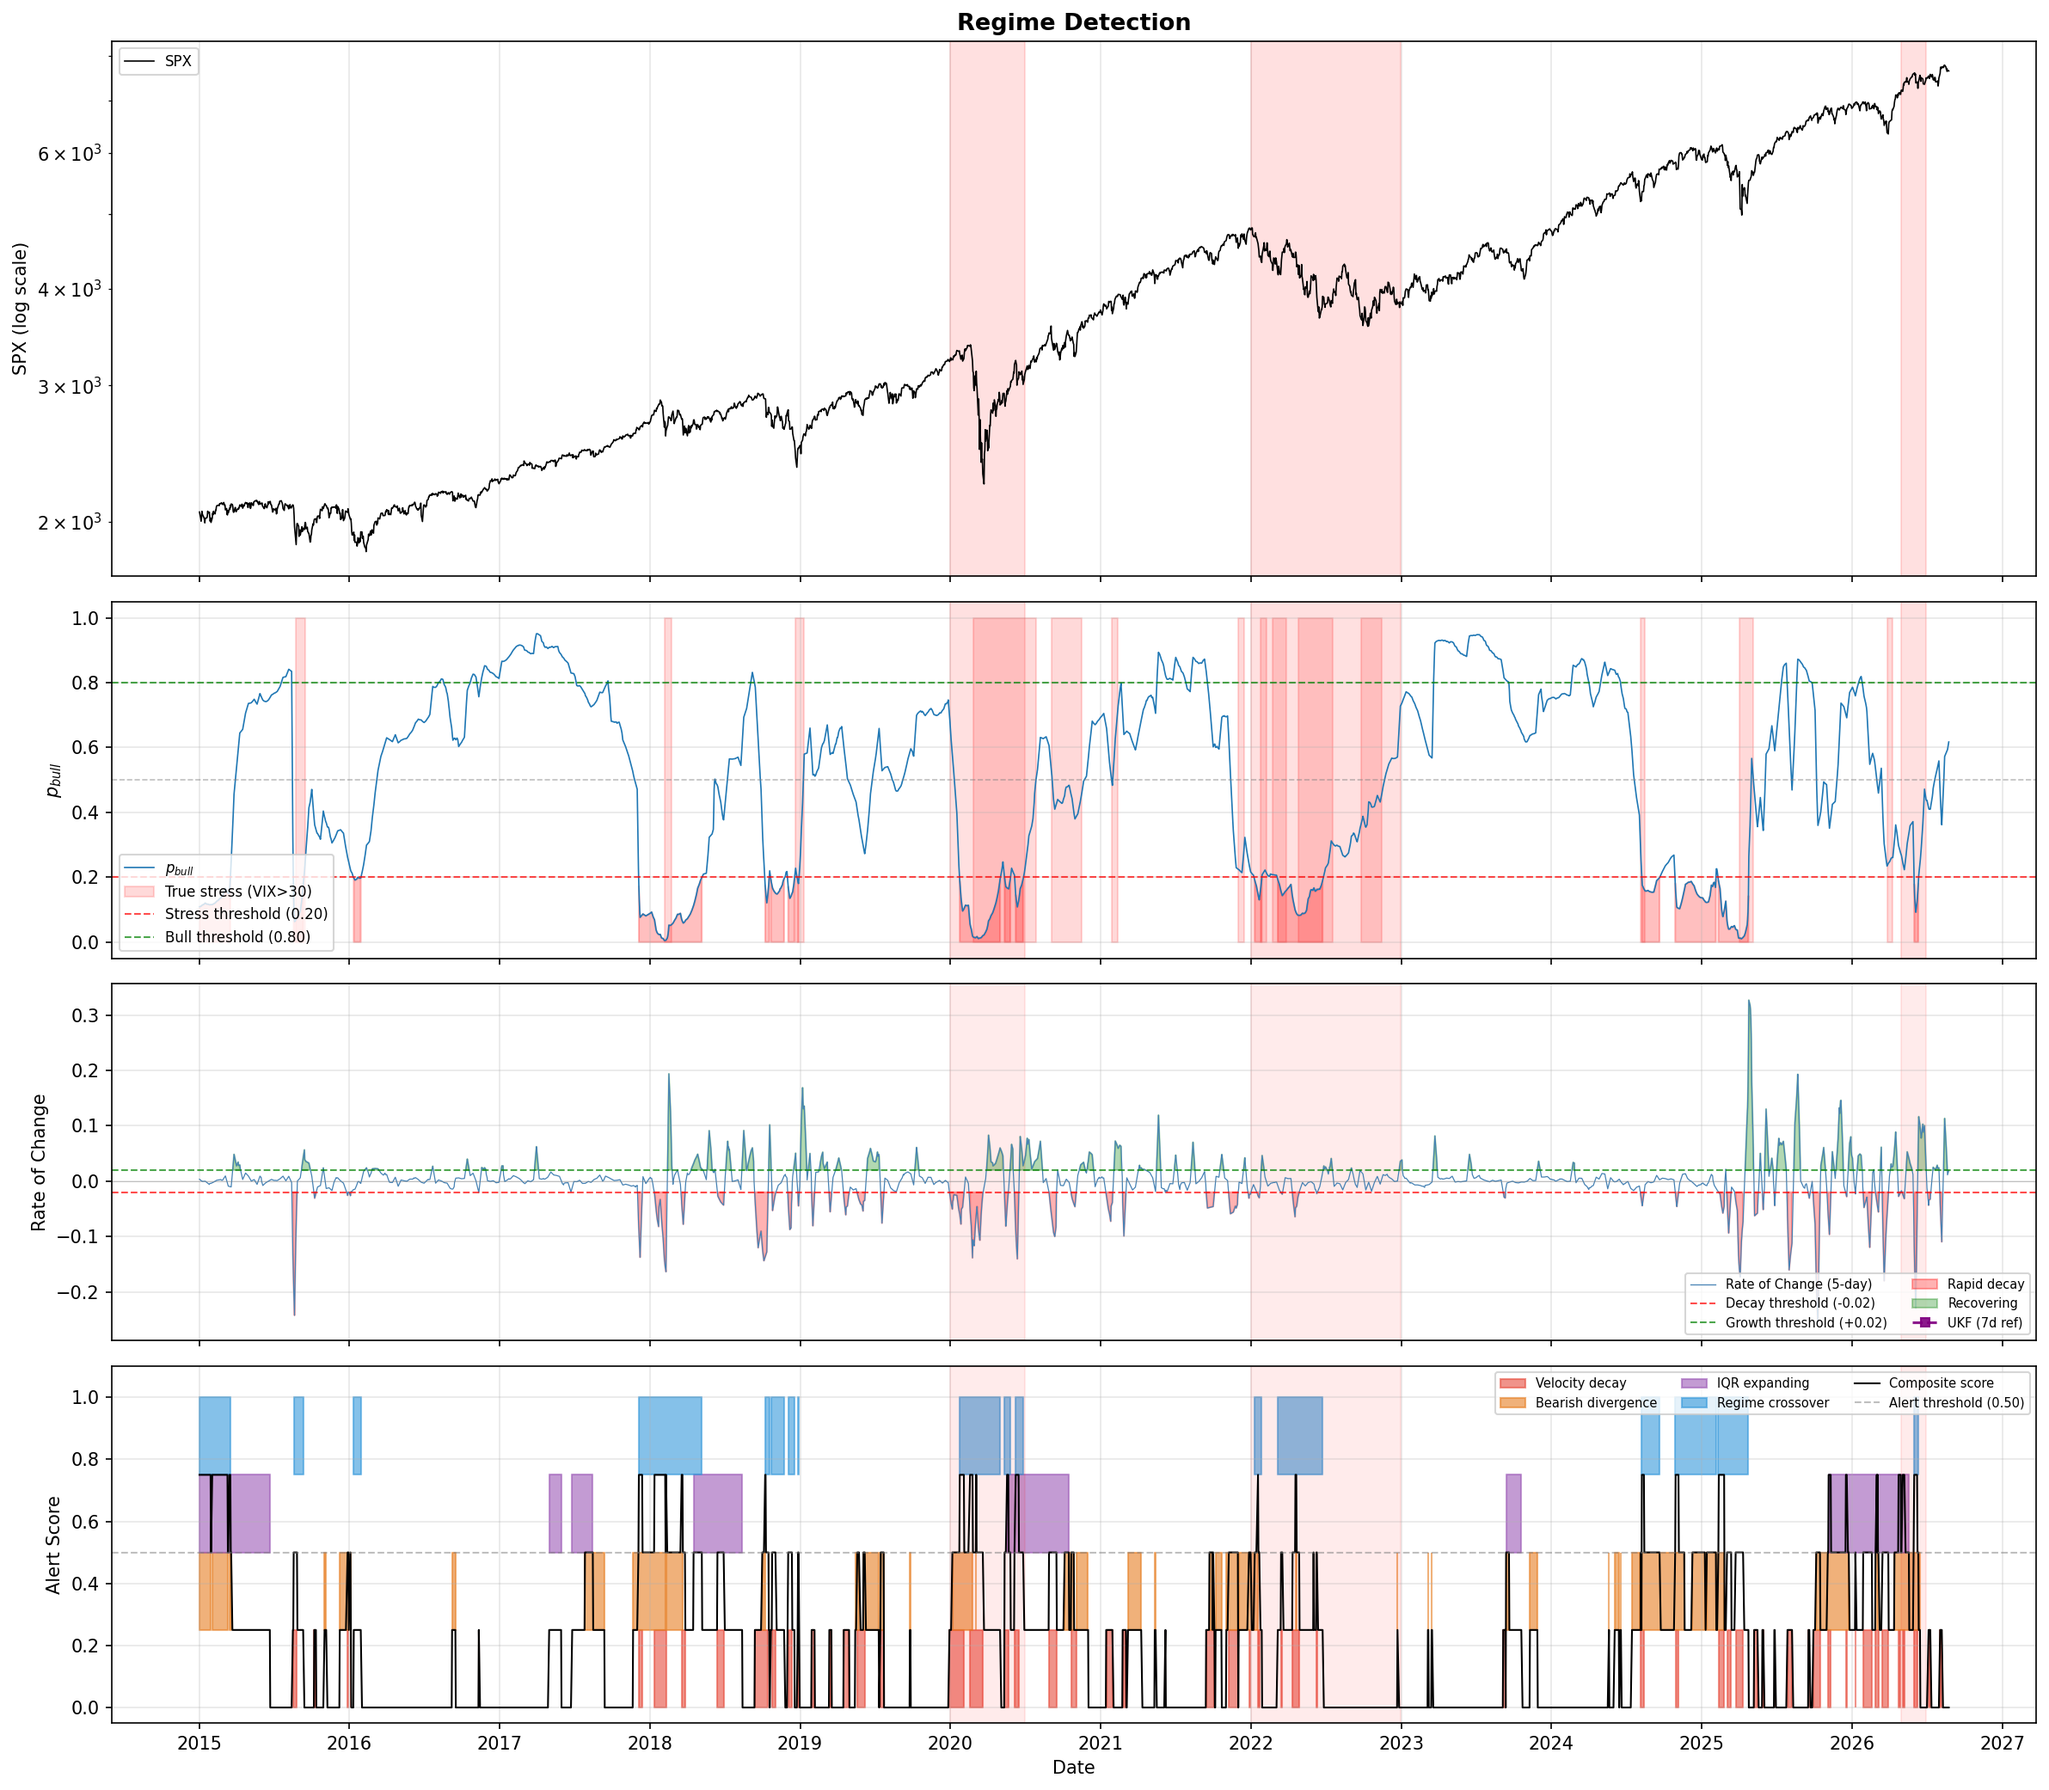
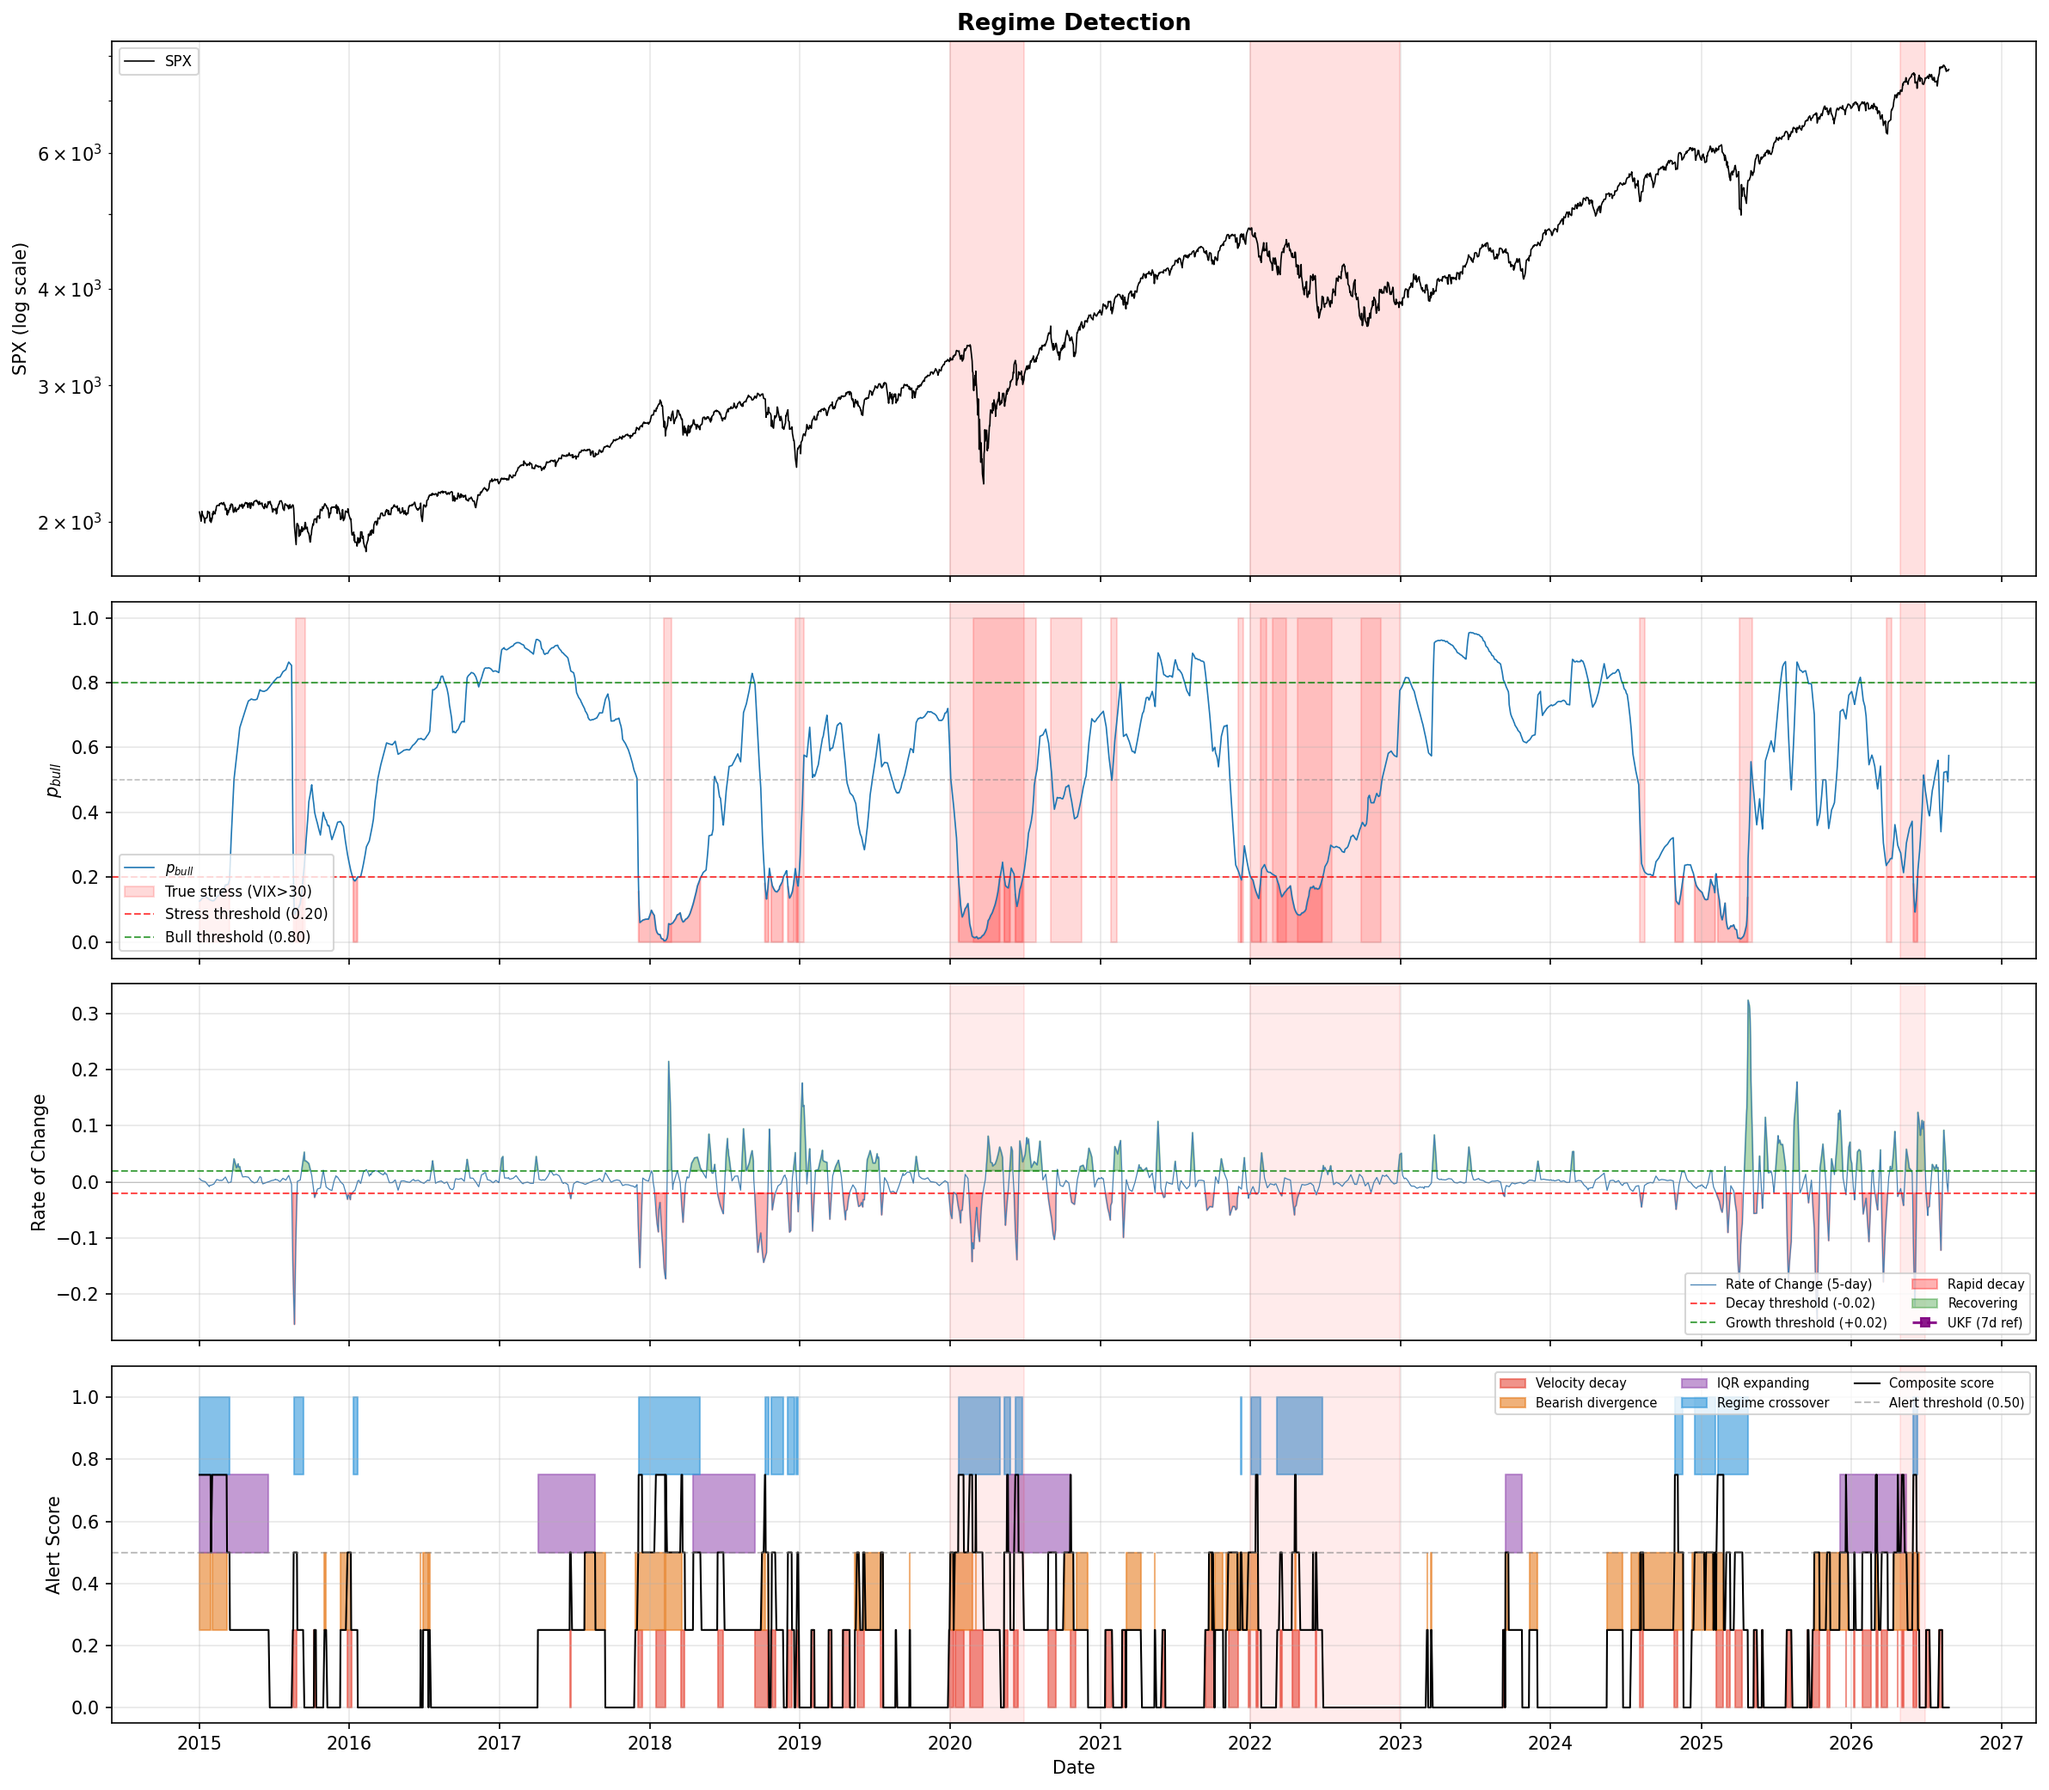
8_26

diff --git a/docs/regime/regime_report.md b/docs/regime/regime_report.md
@@ -1,6 +1,6 @@
 # Regime Detection — Daily Brief
 
-**Data as of:** 2026-08-24 (last trading day)
+**Data as of:** 2026-08-26 (last trading day)
 
 ## Chart
 
@@ -12,10 +12,10 @@
 
 | Indicator | Latest | Status |
 |-----------|--------|--------|
-| p_bull | 0.617 | OK |
-| Rate of Change (5d) | 0.0189 | Stable |
+| p_bull | 0.575 | OK |
+| Rate of Change (5d) | 0.0213 | GROWTH |
 | Composite Alert | 0.00 | Low |
-| SPX 60d return | +1.76% | — |
+| SPX 60d return | +1.40% | — |
 | Bearish Divergence | No | — |
 | IQR Expanding | No | — |
 
